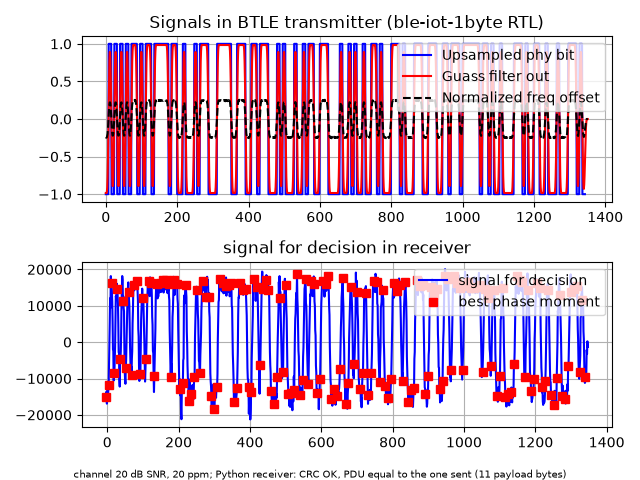
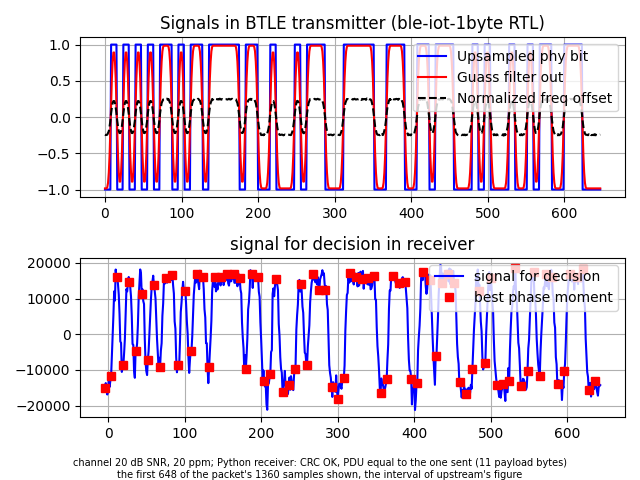
docs: TX_TAG_4_IOT.md § 3.1, 3.2: the IoT figures py-fig3 and py-fig4 on the interval of upstream's (the first 648 samples, was the whole packet), for a direct comparison; the signals and the RTL vs Python result are unchanged

diff --git a/docs/Senseworks/TX_TAG_4_IOT.md b/docs/Senseworks/TX_TAG_4_IOT.md
@@ -135,9 +135,11 @@ or faster. Pairs to any other address are dropped.
 | ![upstream TX signals](../../open_btle_baseband_chip/py-fig3.png) | ![ble-tx-iot TX signals](../../results/figures/tx-iot/tx_iot_py_fig3.png) | ![ble-iot-1byte TX signals](../../results/figures/iot-1byte/iot_1byte_py_fig3.png) |
 
 Upstream's figure is a 2-byte data PDU, which these transmitters cannot send, so the columns show the form of the
-signal and not the same packet. The two others are each tag's whole packet on channel 37, with the RTL's actual
-output against the Python model on every sample: **0 samples differ** in both (1 424 samples, 176 PHY bits; 1 360
-samples, 168 PHY bits; `tx_iot_figures_tx.json`, `iot_1byte_figures_tx.json`).
+signal and not the same packet. The two others draw the first 648 samples of each tag's packet on channel 37, the
+interval of upstream's figure (the preamble, the access address, the PDU header and the start of AdvA). Only the
+drawing is cut: the RTL's actual output is compared with the Python model on every sample of the whole packet, and
+**0 samples differ** in both (1 424 samples, 176 PHY bits; 1 360 samples, 168 PHY bits; `tx_iot_figures_tx.json`,
+`iot_1byte_figures_tx.json`).
 
 ### 3.2 The receiver's decision (upstream's `py-fig4.png`)
 
@@ -146,7 +148,7 @@ samples, 168 PHY bits; `tx_iot_figures_tx.json`, `iot_1byte_figures_tx.json`).
 | ![upstream RX decision](../../open_btle_baseband_chip/py-fig4.png) | ![ble-tx-iot RX decision](../../results/figures/tx-iot/tx_iot_py_fig4.png) | ![ble-iot-1byte RX decision](../../results/figures/iot-1byte/iot_1byte_py_fig4.png) |
 
 After 20 dB SNR and 20 ppm, demodulated by upstream's receiver model: CRC OK and the PDU received equal to the one
-sent, on both.
+sent, on both. The figures draw the same first 648 samples; the receiver decided on the whole packet.
 
 ### 3.3 Bit error rate (upstream's `open_btle_baseband_chip_21_1.png`, `_23_1.png`)
 
